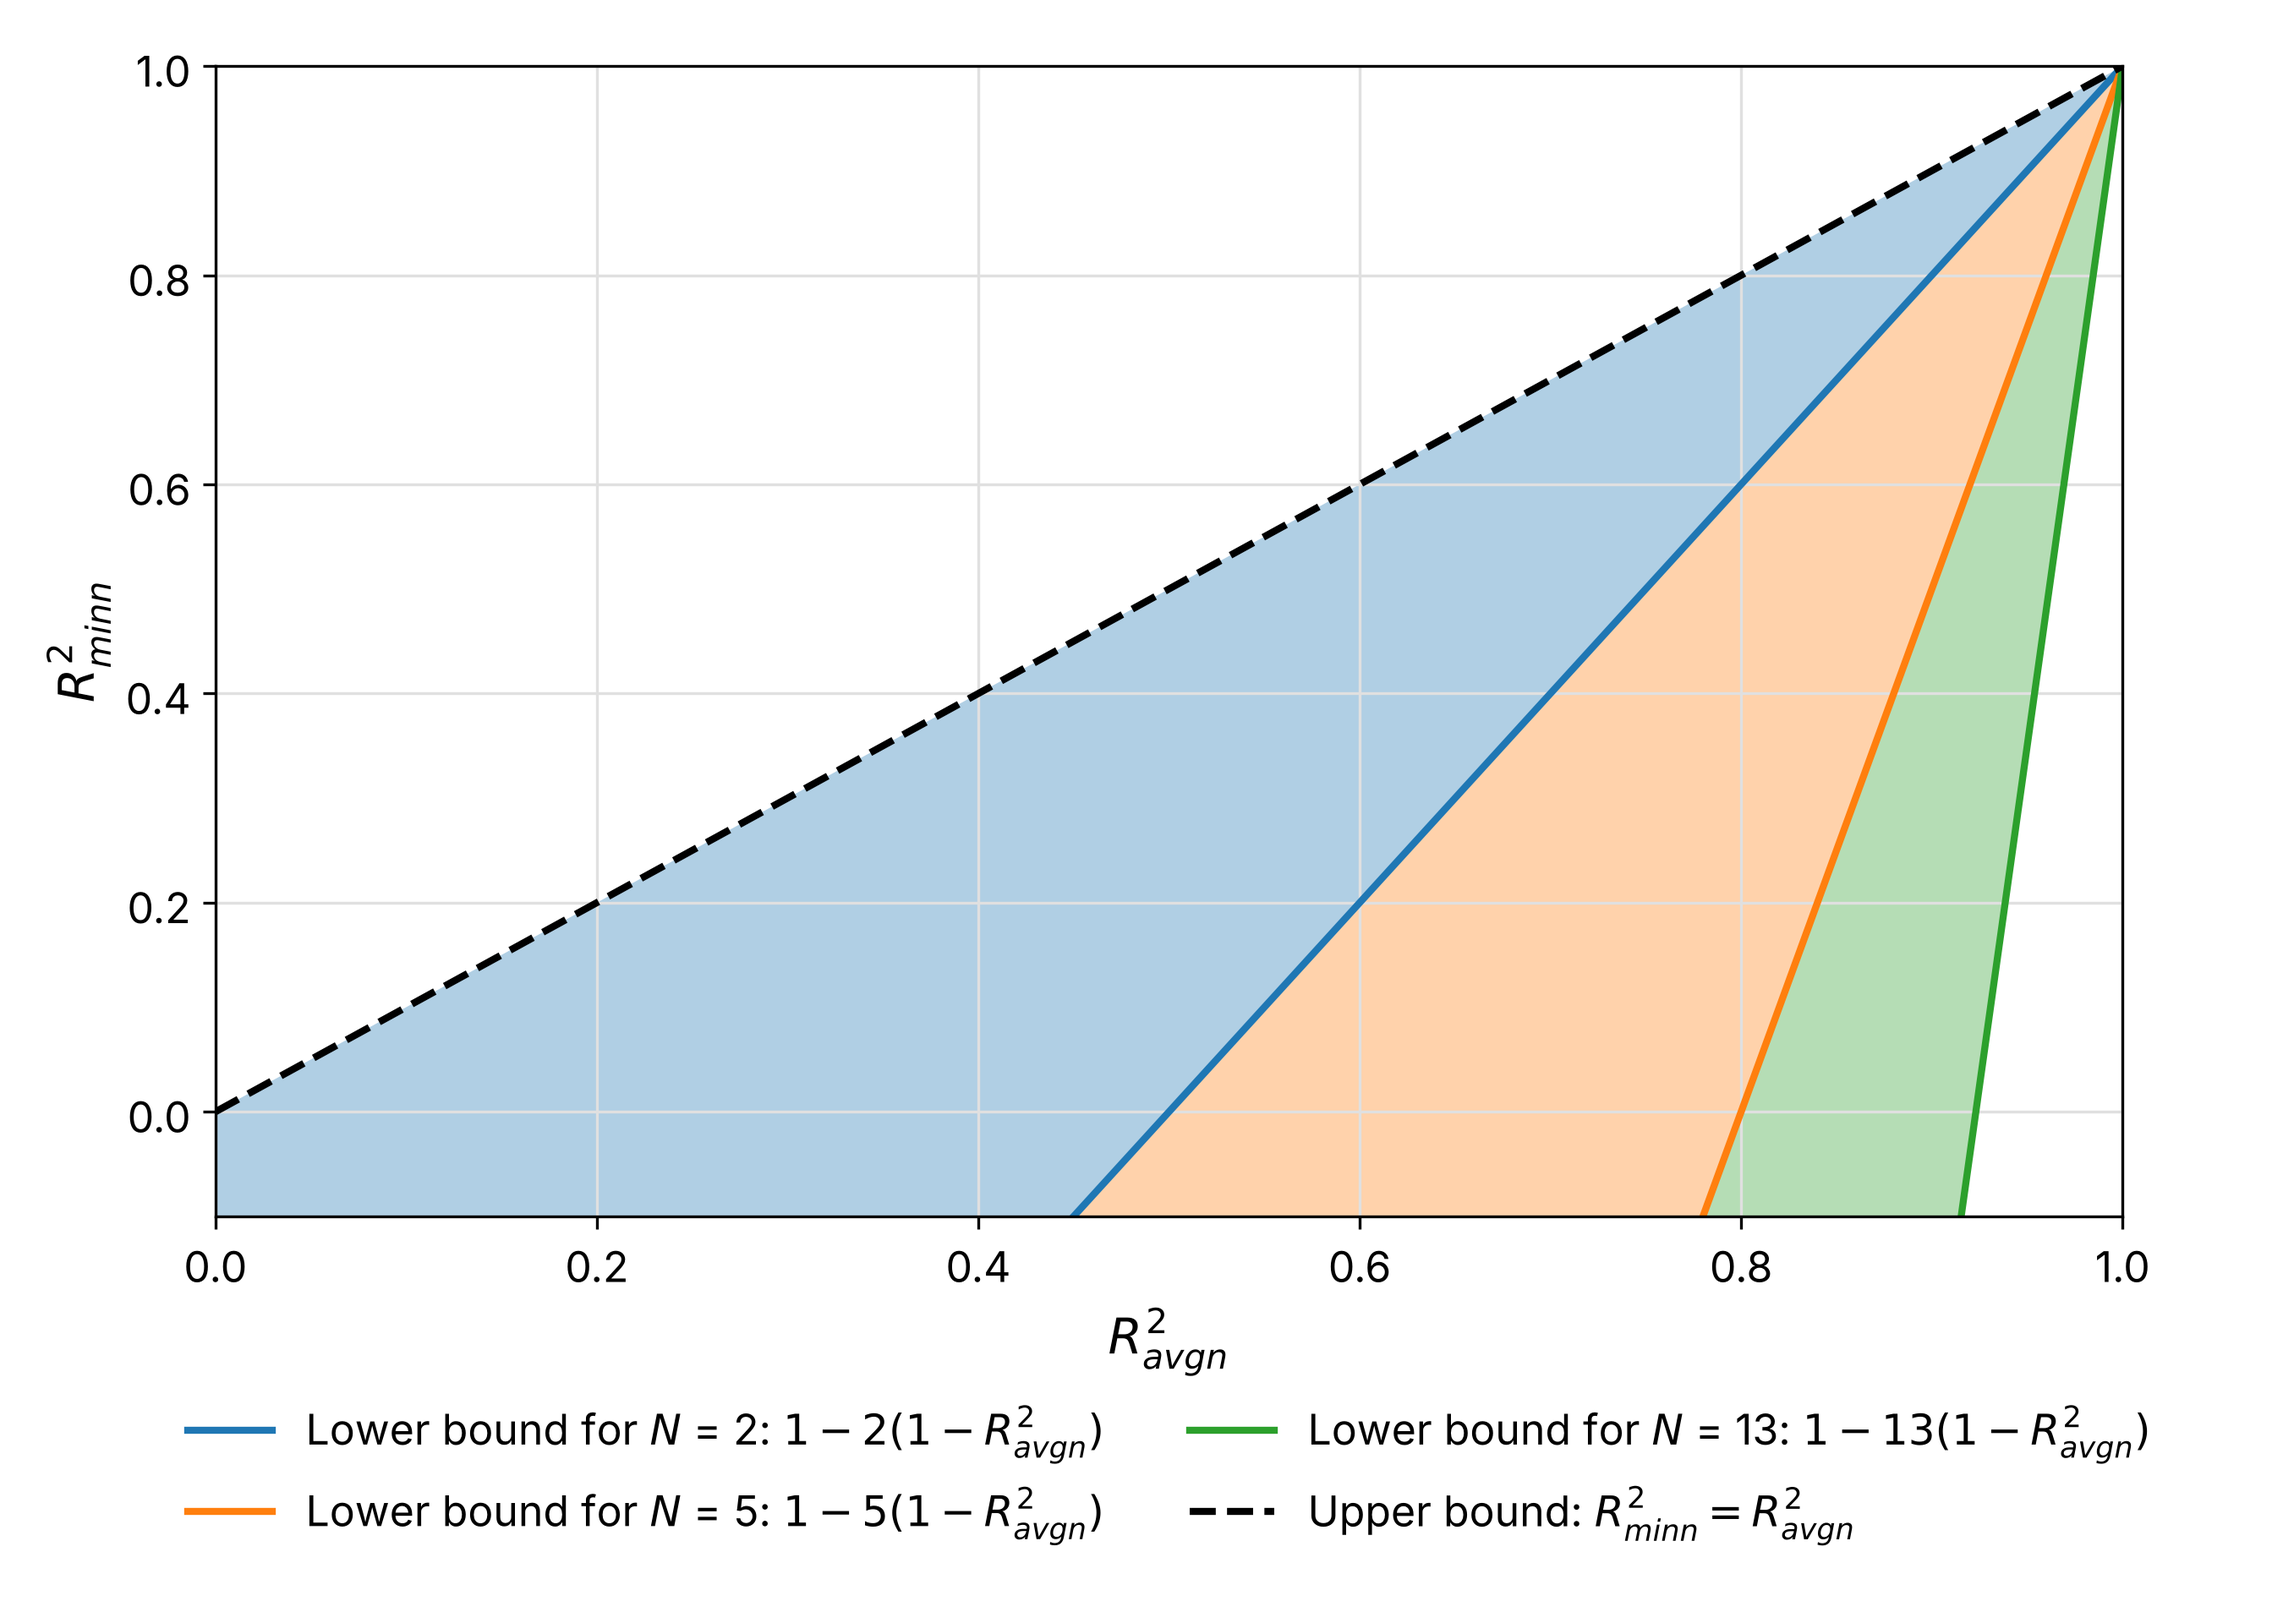
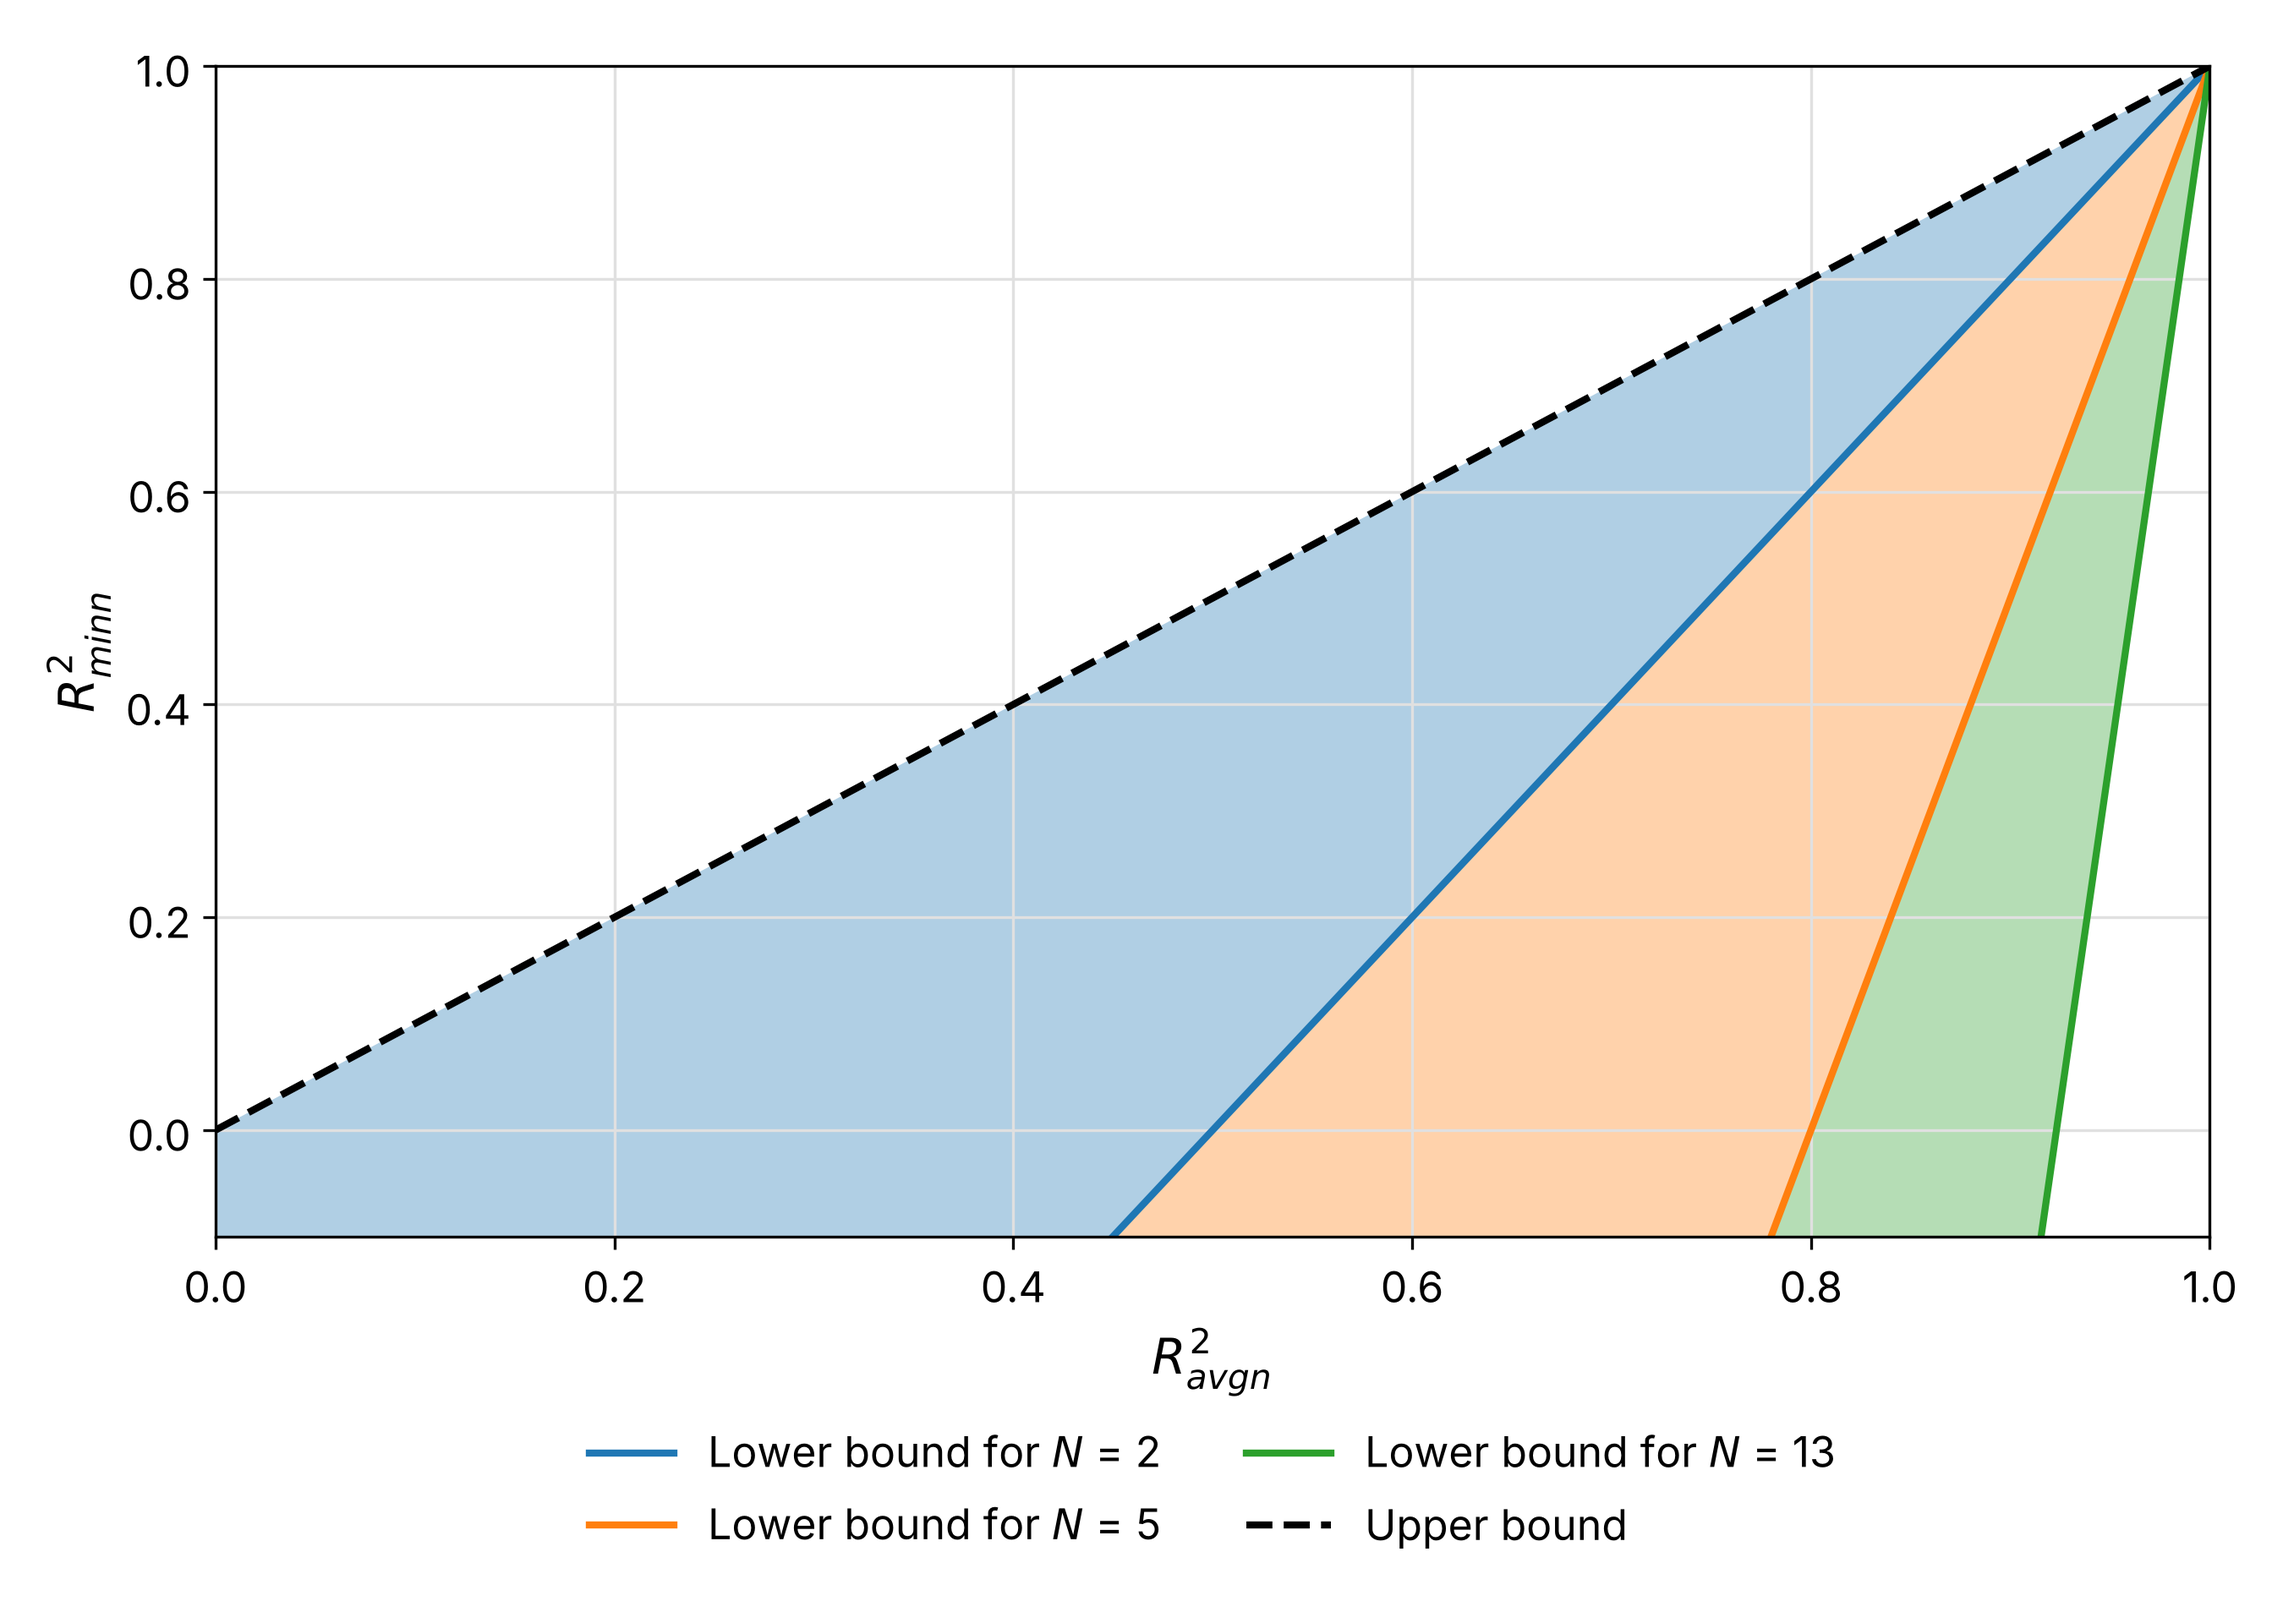
R2 aggregation: drop formulas from Fig 1 legend
Claude-Session: https://claude.ai/code/session_01MWX29AcFYrPTWzeVf6ntur

diff --git a/Math/R2-Aggregation/src/r2_minn_bounds_figure.py b/Math/R2-Aggregation/src/r2_minn_bounds_figure.py
@@ -5,7 +5,7 @@ For a given average of location R2, R2_avgn, eq (26) puts the minimum location R
 1 - N (1 - R2_avgn) and R2_avgn. The figure draws that range as a band over R2_avgn for a few values of N.
 """
 __author__ = 'yRocket'
-__version__ = "0.0.1+20261112"  # Semantic Versioning: Major.Minor.Patch+YYYYMMDD
+__version__ = "0.0.2+20261112"  # Semantic Versioning: Major.Minor.Patch+YYYYMMDD
 
 import argparse
 import pathlib
@@ -52,9 +52,9 @@ def draw_bounds(n_values: tuple = N_VALUES, out_path: pathlib.Path = None) -> pa
     for n, color in zip(n_values, BAND_COLORS):
         lower, upper = minn_bounds(x, n)
         ax.fill_between(x, lower, previous_lower, facecolor=color, alpha=0.35, linewidth=0)
-        ax.plot(x, lower, color=color, linewidth=2, label=f"Lower bound for $N$ = {n}: $1 - {n}(1 - R^2_{{avgn}})$")
+        ax.plot(x, lower, color=color, linewidth=2, label=f"Lower bound for $N$ = {n}")
         previous_lower = lower
-    ax.plot(x, x, color='black', linewidth=2, linestyle='--', label='Upper bound: $R^2_{minn} = R^2_{avgn}$')
+    ax.plot(x, x, color='black', linewidth=2, linestyle='--', label='Upper bound')
     ax.set_xlim(0.0, 1.0)
     ax.set_ylim(*Y_RANGE)
     ax.set_xlabel('$R^2_{avgn}$')
